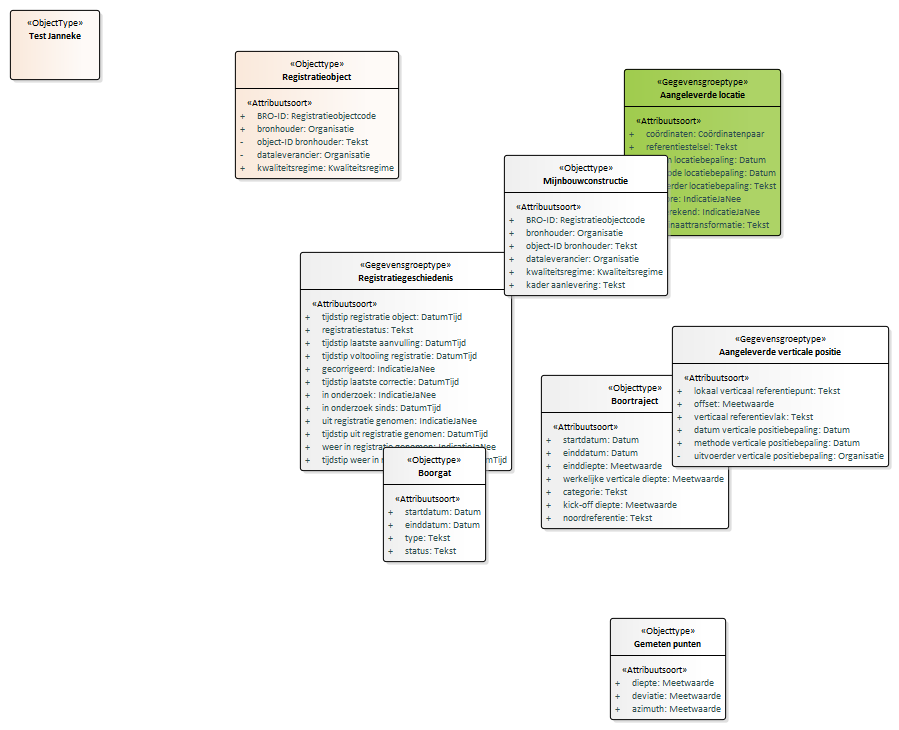
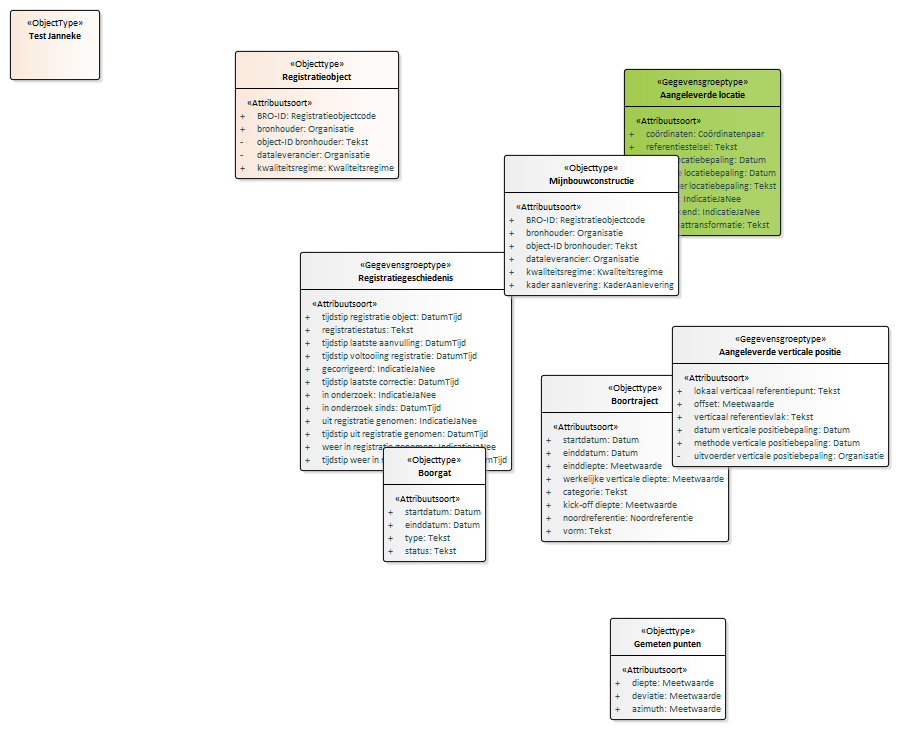
Conceptualmodel-MijnbouwconstructiesEPC-conceptueel-0.1versie27juli2020-1-20200727-20200728-163213

Changed region(s): [[0.5918, 0.211, 0.7786, 0.4219], [0.5918, 0.6932, 0.8098, 0.7534]]

diff --git a/data/EPC-cat.msword.html b/data/EPC-cat.msword.html
@@ -15,7 +15,7 @@
    <body>
       <p>Conceptual model/Mijnbouwconstructies (EPC) - conceptueel/20200727</p>
       <p>Imvertor: 1.61.2</p>
-      <p>Model release: Conceptualmodel-MijnbouwconstructiesEPC-conceptueel-0.1versie27juli2020-1-20200727-20200728-140436</p>
+      <p>Model release: Conceptualmodel-MijnbouwconstructiesEPC-conceptueel-0.1versie27juli2020-1-20200727-20200728-163213</p>
       <hr>
       <section>
          <h1>Artikel 1 Definitie van registratieobject, entiteiten en attributen</h1>
@@ -283,6 +283,39 @@
                      </table>
                      </section><a class="anchor" id="detail_attribute_Model_Boortraject_noordreferentie"></a><section id="detail_attribute_Model_Boortraject_noordreferentie">
                      <h4>  noordreferentie</h4>
+                     
+                     <table style="width: 100%;">
+                        <colgroup style="width: 30%;"></colgroup>
+                        <colgroup style="width: 70%;"></colgroup>
+                        <tbody>
+                           <tr>
+                              <th>Type gegeven</th>
+                              <td>Attribuut van Boortraject</td>
+                           </tr>
+                           <tr>
+                              <th>Juridische status</th>
+                              <td>Authentiek</td>
+                           </tr>
+                           <tr>
+                              <th>Kardinaliteit</th>
+                              <td>1</td>
+                           </tr>
+                           <tr>
+                              <th>Domein</th>
+                              <td></td>
+                           </tr>
+                           <tr>
+                              <th>&nbsp;&nbsp;Naam</th>
+                              <td><a class="link" href="#detail_class_Model_Noordreferentie">Noordreferentie</a></td>
+                           </tr>
+                           <tr>
+                              <th>&nbsp;&nbsp;Type</th>
+                              <td>Waardelijst uitbreidbaar</td>
+                           </tr>
+                        </tbody>
+                     </table>
+                     </section><a class="anchor" id="detail_attribute_Model_Boortraject_vorm"></a><section id="detail_attribute_Model_Boortraject_vorm">
+                     <h4>  vorm</h4>
                      
                      <table style="width: 100%;">
                         <colgroup style="width: 30%;"></colgroup>
@@ -770,7 +803,11 @@
                            </tr>
                            <tr>
                               <th>&nbsp;&nbsp;Naam</th>
-                              <td>Tekst </td>
+                              <td><a class="link" href="#detail_class_Model_KaderAanlevering">KaderAanlevering</a></td>
+                           </tr>
+                           <tr>
+                              <th>&nbsp;&nbsp;Type</th>
+                              <td>Waardelijst uitbreidbaar</td>
                            </tr>
                         </tbody>
                      </table>
@@ -1634,6 +1671,166 @@
       </section>
       <section>
          <h1>Artikel 2 Beschrijving van uitbreidbare waardelijsten    </h1>
+         <section id="detail_class_Model_Vorm">
+            <h3>  Vorm</h3>
+            
+            <table style="width: 100%;" class="list">
+               <colgroup></colgroup>
+               <tbody>
+                  <tr>
+                     <td></td>
+                  </tr>
+               </tbody>
+            </table>
+            
+            <table style="width: 100%;" class="list">
+               <colgroup style="width: 50%;"></colgroup>
+               <colgroup></colgroup>
+               <tbody>
+                  <tr>
+                     <th>Waarde</th>
+                     <th>Omschrijving</th>
+                  </tr>
+                  <tr>
+                     <td>Horizontaal</td>
+                     <td></td>
+                  </tr>
+                  <tr>
+                     <td>Gedevieerd</td>
+                     <td></td>
+                  </tr>
+                  <tr>
+                     <td>Verticaal</td>
+                     <td></td>
+                  </tr>
+               </tbody>
+            </table>
+            </section>
+         <section id="detail_class_Model_KaderAanlevering">
+            <h3>  KaderAanlevering</h3>
+            
+            <table style="width: 100%;" class="list">
+               <colgroup></colgroup>
+               <tbody>
+                  <tr>
+                     <td></td>
+                  </tr>
+               </tbody>
+            </table>
+            
+            <table style="width: 100%;" class="list">
+               <colgroup style="width: 50%;"></colgroup>
+               <colgroup></colgroup>
+               <tbody>
+                  <tr>
+                     <th>Waarde</th>
+                     <th>Omschrijving</th>
+                  </tr>
+                  <tr>
+                     <td>MBW2003</td>
+                     <td>
+                        
+                        <p>De gegevens zijn aangeleverd in het kader van de Mijnbouwwet. De Wet is op 1 januari
+                           2003 in werking getreden. </p>
+                        </td>
+                  </tr>
+                  <tr>
+                     <td>MBW2008</td>
+                     <td>
+                        
+                        <p>De gegevens zijn aangeleverd in het kader van de Mijnbouwwet. De Wet is op 1 januari
+                           2003 in werking getreden en gewijzigd per 8 augustus 2008.</p>
+                        </td>
+                  </tr>
+                  <tr>
+                     <td>MBW2010</td>
+                     <td>
+                        
+                        <p>De gegevens zijn aangeleverd in het kader van de Mijnbouwwet. De Wet is op 1 januari
+                           2003 in werking getreden en gewijzigd per 1 januari 2010. </p>
+                        </td>
+                  </tr>
+                  <tr>
+                     <td>MBW2011</td>
+                     <td>
+                        
+                        <p>De gegevens zijn aangeleverd in het kader van de Mijnbouwwet. De Wet is op 1 januari
+                           2003 in werking getreden en gewijzigd per 10 september 2011. </p>
+                        </td>
+                  </tr>
+                  <tr>
+                     <td>MBW2016</td>
+                     <td>
+                        
+                        <p>De gegevens zijn aangeleverd in het kader van de Mijnbouwwet. De Wet is op 1 januari
+                           2003 in werking getreden en gewijzigd per 31 december 2016.</p>
+                        </td>
+                  </tr>
+                  <tr>
+                     <td>MBW2017</td>
+                     <td>
+                        
+                        <p>De gegevens zijn aangeleverd in het kader van de Mijnbouwwet. De Wet is op 1 januari
+                           2003 in werking getreden en gewijzigd per 1 januari 2017. </p>
+                        </td>
+                  </tr>
+                  <tr>
+                     <td>MBW2020</td>
+                     <td>
+                        
+                        <p>De gegevens zijn aangeleverd in het kader van de Mijnbouwwet. De Wet is op 1 januari
+                           2003 in werking getreden en gewijzigd per 1 januari 2020. </p>
+                        </td>
+                  </tr>
+               </tbody>
+            </table>
+            </section>
+         <section id="detail_class_Model_Noordreferentie">
+            <h3>  Noordreferentie</h3>
+            
+            <table style="width: 100%;" class="list">
+               <colgroup></colgroup>
+               <tbody>
+                  <tr>
+                     <td></td>
+                  </tr>
+               </tbody>
+            </table>
+            
+            <table style="width: 100%;" class="list">
+               <colgroup style="width: 50%;"></colgroup>
+               <colgroup></colgroup>
+               <tbody>
+                  <tr>
+                     <th>Waarde</th>
+                     <th>Omschrijving</th>
+                  </tr>
+                  <tr>
+                     <td>True North</td>
+                     <td>
+                        
+                        <p>De richting langs het aardoppervlak naar de geografische noorpool.</p>
+                        </td>
+                  </tr>
+                  <tr>
+                     <td>Magnetisch Noorden</td>
+                     <td>
+                        
+                        <p>De richting waarnaar de noordzoekende pool van een vrij bewegende kompasnaald zich
+                           instelt (geprojecteerd op het horizontale vlak). Het magnetisch noorden verandert
+                           als gevolg van wijzigingen in het aardmagnetisch veld.</p>
+                        </td>
+                  </tr>
+                  <tr>
+                     <td>Grid Noorden</td>
+                     <td>
+                        
+                        <p>De richting van het noorden op de kaart. (oriëntatie op de kaart)</p>
+                        </td>
+                  </tr>
+               </tbody>
+            </table>
+            </section>
       </section>
    </body>
 </html>
